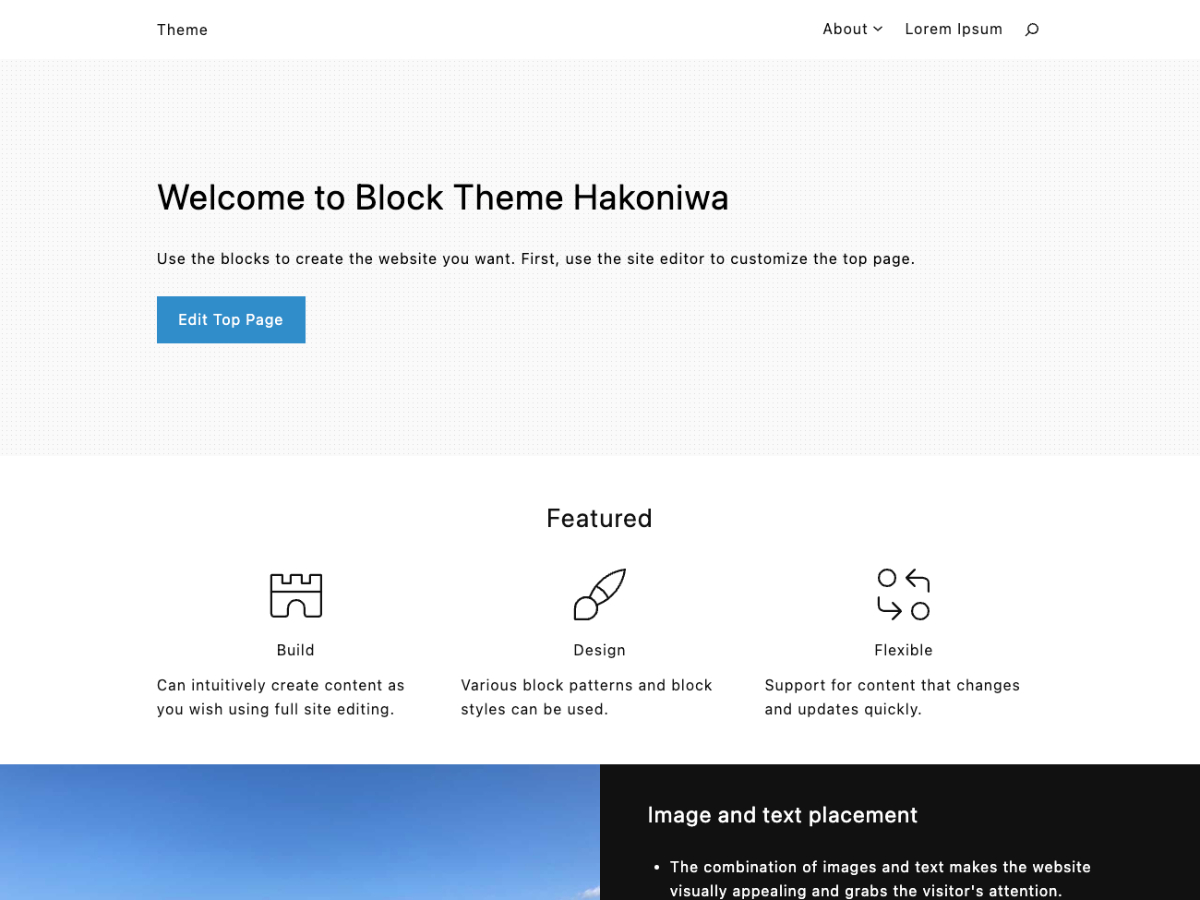
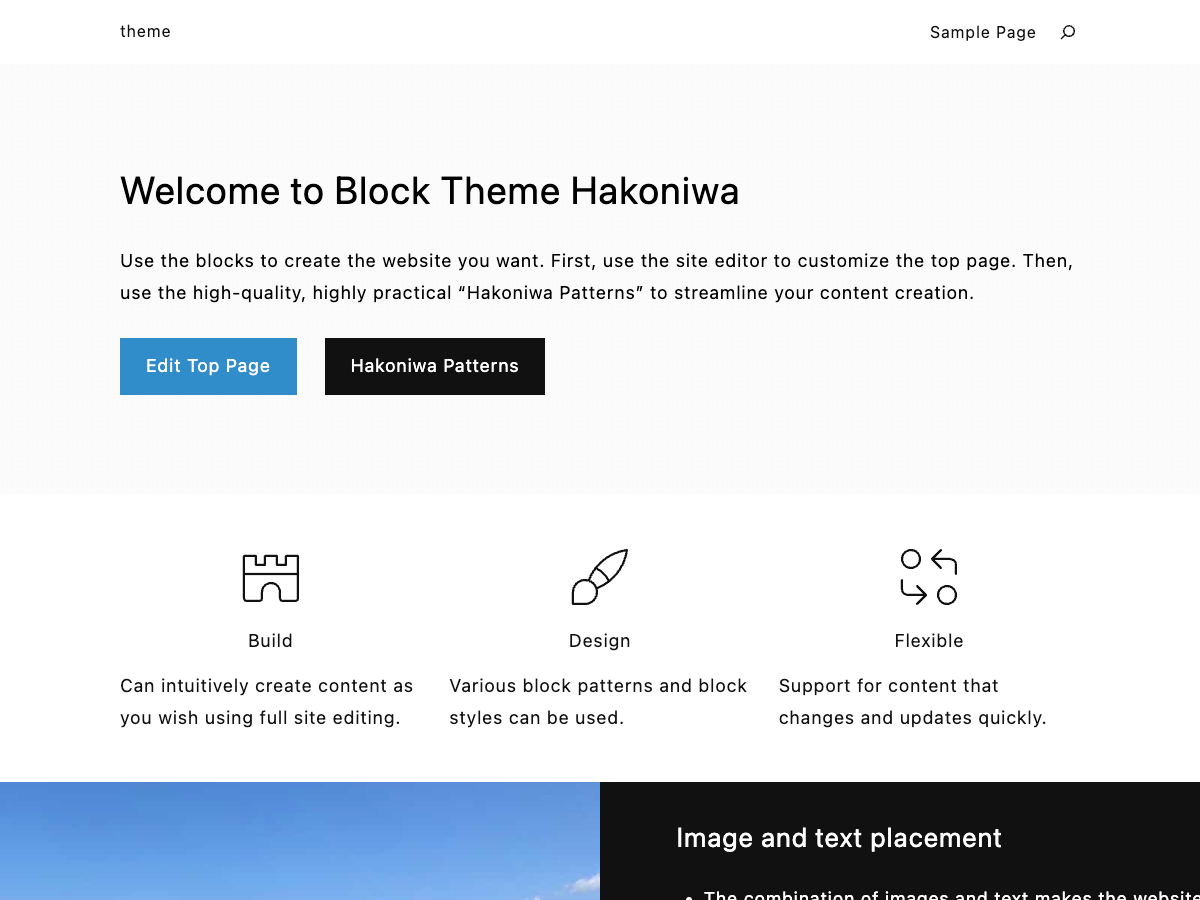
Update
スクリーンショットの変更
翻訳追加
テンプレートパーツの編集
パターンの編集
CSS の追加

diff --git a/assets/css/admin.css b/assets/css/admin.css
@@ -1,6 +1,5 @@
 a[href="themes.php?page=about"] {
-  color: #111 !important;
-  background: #eee !important;
+  color: #1dfa0f !important;
 }
 
 .hakoniwa-about-wrap {
@@ -110,4 +109,21 @@ a[href="themes.php?page=about"] {
 .hakoniwa-about-wrap .main-title {
   margin-top: 0;
   font-size: 1.5em;
+}
+.hakoniwa-about-wrap .dashicons-admin-network {
+  display: flex;
+  align-items: center;
+  gap: 0.5em;
+}
+.hakoniwa-about-wrap .dashicons-admin-network.active::before {
+  color: #61ad73;
+}
+.hakoniwa-about-wrap .dashicons-admin-network.active input {
+  background: #99e0aa;
+}
+.hakoniwa-about-wrap .dashicons-admin-network.deactive::before {
+  color: #ddcf00;
+}
+.hakoniwa-about-wrap .dashicons-admin-network.deactive input {
+  background: #ece02e;
 }

diff --git a/src/scss/style-admin.scss b/src/scss/style-admin.scss
@@ -1,6 +1,5 @@
 a[href="themes.php?page=about"] {
-  color: #111 !important;
-  background:#eee !important;
+  color: #1dfa0f !important;
 }
 
 .hakoniwa-about-wrap{
@@ -135,11 +134,30 @@ a[href="themes.php?page=about"] {
 		font-size:1.5em;
 	}
 
-	.card-title{
+	.dashicons-admin-network{
+		display: flex;
+		align-items: center;
+		gap: 0.5em;
 
-	}
+		&.active{
+			&::before{
+				color:#61ad73;
+			}
+			
+			input{
+				background:#99e0aa;
+			}
+		}
 
-	.card-description{
+		&.deactive{
+			&::before{
+				color:#ddcf00;
+			}
+
+			input{
+				background:#ece02e;
+			}
+		}
 
 	}
 }

diff --git a/style.css b/style.css
@@ -7,7 +7,7 @@ Description: Block theme that allows you to use blocks anywhere on your website.
 Requires at least: 6.5
 Tested up to: 6.8
 Requires PHP: 7.4
-Version: 1.2.3
+Version: 1.2.4
 License: GNU General Public License v2 or later
 License URI: http://www.gnu.org/licenses/gpl-2.0.html
 Text Domain: hakoniwa

diff --git a/parts/main-front-page.html b/parts/main-front-page.html
@@ -2,4 +2,4 @@
 <!-- wp:pattern {"slug":"hakoniwa/featured-content-02"} /-->
 <!-- wp:pattern {"slug":"hakoniwa/media-text-01"} /-->
 <!-- wp:pattern {"slug":"hakoniwa/latest-posts-01"} /-->
-<!-- wp:pattern {"slug":"hakoniwa/call-to-action-02"} /-->
+<!-- wp:pattern {"slug":"hakoniwa/call-to-action-01"} /-->

diff --git a/patterns/main-visual-01.php b/patterns/main-visual-01.php
@@ -20,12 +20,15 @@
 		<h1 class="wp-block-heading is-style-default has-4-xl-font-size"><?php echo esc_html_x( 'Welcome to Block Theme Hakoniwa', 'Pattern:Main Visual 01', 'hakoniwa' ); ?></h1>
 		<!-- /wp:heading -->
 		<!-- wp:paragraph -->
-		<p><?php echo esc_html_x( 'Use the blocks to create the website you want. First, use the site editor to customize the top page.', 'Pattern:Main Visual 01', 'hakoniwa' ); ?></p>
+		<p><?php echo esc_html_x( 'Use the blocks to create the website you want. First, use the site editor to customize the top page. Then, use the high-quality, highly practical “Hakoniwa Patterns” to streamline your content creation.', 'Pattern:Main Visual 01', 'hakoniwa' ); ?></p>
 		<!-- /wp:paragraph -->
 		<!-- wp:buttons -->
 		<div class="wp-block-buttons">
 			<!-- wp:button {"className":"is-style-fill"} -->
 			<div class="wp-block-button is-style-fill"><a class="wp-block-button__link wp-element-button" href="<?php echo get_admin_url( null, '/site-editor.php?postType=wp_template&postId=hakoniwa//front-page&canvas=edit' ); ?>"><?php echo esc_html_x( 'Edit Top Page', 'Pattern:Main Visual 01', 'hakoniwa' ); ?></a></div>
+			<!-- /wp:button -->
+			<!-- wp:button {"backgroundColor":"contrast","className":"is-style-fill"} -->
+			<div class="wp-block-button is-style-fill"><a class="wp-block-button__link has-contrast-background-color has-background wp-element-button" href="https://hakoniwa.animagate.com/patterns/" target="_blank" rel="noreferrer noopener">Hakoniwa Patterns</a></div>
 			<!-- /wp:button -->
 		</div>
 		<!-- /wp:buttons -->

diff --git a/patterns/featured-content-02.php b/patterns/featured-content-02.php
@@ -10,10 +10,7 @@
 
 ?>
 <!-- wp:group {"align":"full","style":{"spacing":{"padding":{"top":"var:preset|spacing|80","bottom":"var:preset|spacing|80","left":"2rem","right":"2rem"}}},"layout":{"type":"constrained"}} -->
-<div class="wp-block-group alignfull" style="padding-top:var(--wp--preset--spacing--80);padding-right:2rem;padding-bottom:var(--wp--preset--spacing--80);padding-left:2rem"><!-- wp:heading {"textAlign":"center","className":"is-style-default","fontSize":"2xl"} -->
-	<h2 class="wp-block-heading has-text-align-center is-style-default has-2-xl-font-size">Featured</h2>
-	<!-- /wp:heading -->
-
+<div class="wp-block-group alignfull" style="padding-top:var(--wp--preset--spacing--80);padding-right:2rem;padding-bottom:var(--wp--preset--spacing--80);padding-left:2rem">
 	<!-- wp:columns {"align":"wide"} -->
 	<div class="wp-block-columns alignwide"><!-- wp:column -->
 	<div class="wp-block-column"><!-- wp:group {"style":{"spacing":{"blockGap":"var:preset|spacing|20"}},"layout":{"type":"default"}} -->
